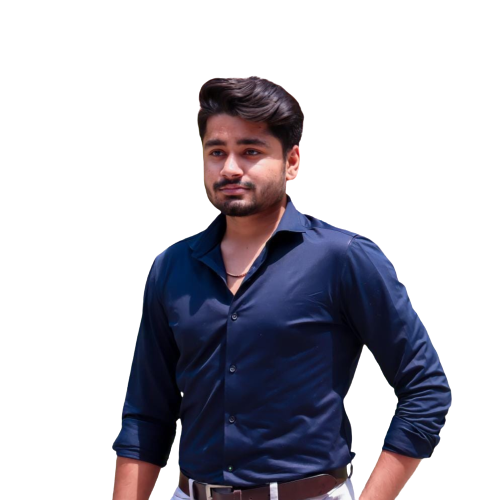
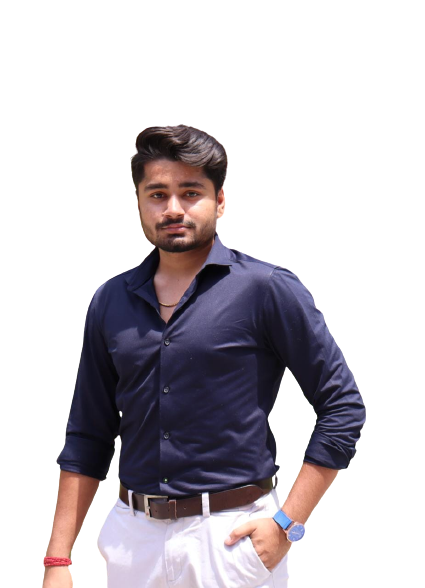
Changed Profile images

diff --git a/src/Components/Team.js b/src/Components/Team.js
@@ -293,7 +293,7 @@ const Team = (props) => {
                     >
                       <div className="member-img">
                         <img
-                          src={require("./Images/JatinDrall.png")}
+                          src={require("./Images/JatinDrall.jpeg")}
                           className="member-img"
                           alt=""
                         />
